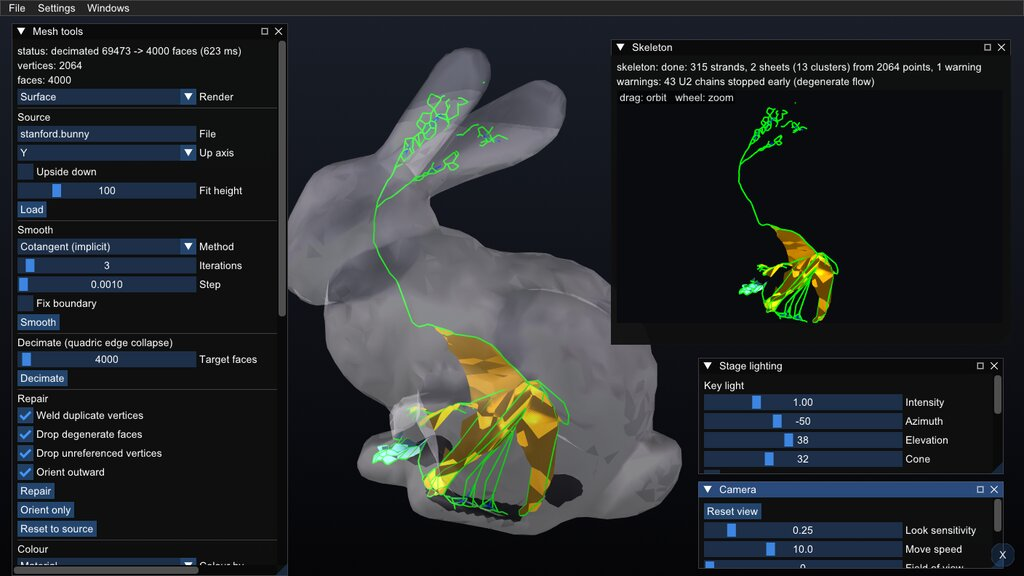
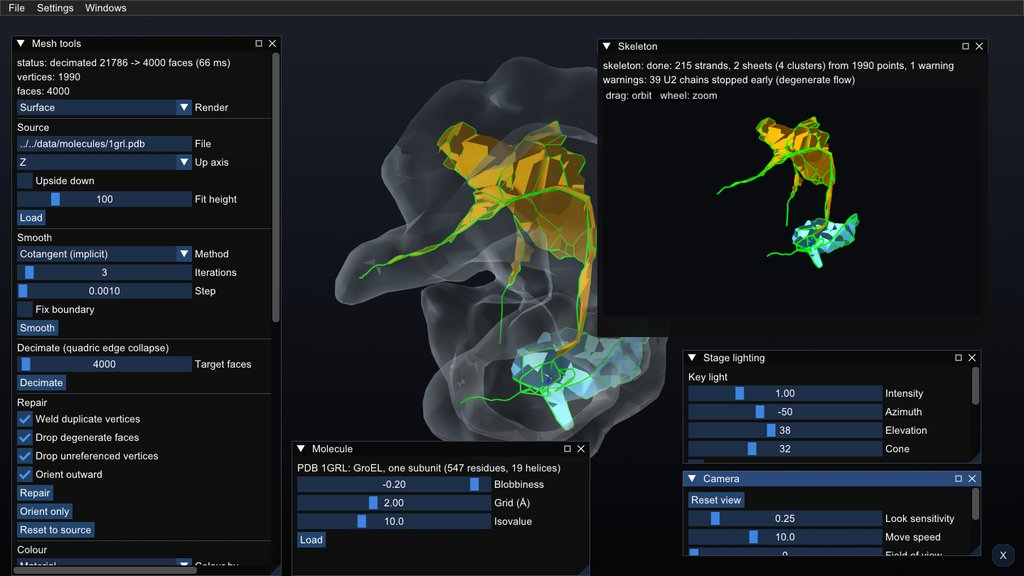
skeleton lab on a molecule: mesh_lab makes PDB 1GRL's surface (blur map, isosurface); its strands follow the helices
Joe: "i believe skeletonization was meant for molecular data. instead of the bunny, do we have a
better data set to use here ... maybe a pdb?"

- mesh_lab: a molecule file (.pdb, .ent, .pqr, .xyzr; cvc::mol) is read as its heavy atoms, blurred
  (cvc::mol::blur) and isosurfaced (cvc::iso); source.blobbiness / resolution / isovalue /
  hydrogens, seeded from the props of those names, are in the source's signature, so load reads it
  again when they change. TexMol's defaults (-2.3442, 1 Å, 1). An isovalue above the density's
  peak is an error naming the peak.
- skeleton_lab.ari: PDB 1GRL (a GroEL subunit) at blobbiness -0.2, 2 Å, isovalue 10, decimated to
  4,000 triangles and skeletonized; a Molecule window changes the blur and makes it again. The
  gallery entry's text and thumbnail. mesh_tools is unchanged (other documents and goldens show it).
- Why those settings: at TexMol's default blobbiness the surface is the atoms' own and the skeleton
  finds no strands; in blurrier maps its strands run along the helices. Here 81 of 243 helix
  C-alphas lie within 3 Å of a strand, 22 of 232 coil ones.
- cvcgl_mesh_skeleton: the molecule case (the surface, the seeded keys, decimate and skeleton, the
  helix/coil ratio above 2, an isovalue above the peak reported).
- Golden molecule_skeleton.ari: 1GRL's isosurface skeletonized as it is (not decimated), so every
  platform skeletonizes the same points; its PNG comes from CI's llvmpipe run.
[…]

diff --git a/src/cvcGL/test/cvcgl_mesh_skeleton.cpp b/src/cvcGL/test/cvcgl_mesh_skeleton.cpp
@@ -51,10 +51,10 @@
 #include <cvc/geometry/skeleton.h>
 #include <cvc/geometry/tet_complex.h> // tet_complex_available
 #include <cvc/gl/GeometryNode.h>
-#include <cvc/mol/molecule.h>
 #include <cvc/gl/SceneGraph.h>
 #include <cvc/gl/ariadne/extensions.h>
 #include <cvc/gl/ariadne/scene_realize.h>
+#include <cvc/mol/molecule.h>
 #include <cvc/state/state.h>
 #include <filesystem>
 #include <memory>
@@ -513,17 +513,20 @@ int main() {
 
   // ---- a molecule: PDB entry 1GRL (a GroEL subunit) as a surface, then its skeleton ----
   // A .pdb source is the isosurface of its heavy atoms' blur map (cvc::mol::blur). At the skeleton
-  // lab's settings, a low-resolution map (blobbiness -0.2, 2 Å, isovalue 10), the skeleton's strands
-  // run along the helices: a helix's C-alpha lies near a strand far more often than a coil's.
+  // lab's settings, a low-resolution map (blobbiness -0.2, 2 Å, isovalue 10), the skeleton's
+  // strands run along the helices: a helix's C-alpha lies near a strand far more often than a
+  // coil's.
   {
     cvc::app ma;
     cvc::gl::ariadne::register_cvcgl_extensions(ma);
-    const fs::path molDir = fs::path(CVC_REPO_DIR) / "src" / "cvc" / "tests" / "data" / "mol";
+    const fs::path molDir = fs::path(CVC_REPO_DIR) / "examples" / "data" / "molecules";
     Value mp;
     mp.kind = Value::Kind::Map;
-    for (const auto &kv : std::vector<std::pair<std::string, std::string>>{
-             {"blobbiness", "-0.2"}, {"resolution", "2"}, {"isovalue", "10"},
-             {"target_faces", "4000"}})
+    for (const auto &kv :
+         std::vector<std::pair<std::string, std::string>>{{"blobbiness", "-0.2"},
+                                                          {"resolution", "2"},
+                                                          {"isovalue", "10"},
+                                                          {"target_faces", "4000"}})
       mp.entries.emplace_back(kv.first, scalar(kv.second));
     Lab lab(ma, "mol", molDir, "1grl.pdb", mp);
     const std::size_t surface_tris =
@@ -537,7 +540,8 @@ int main() {
           "source.blobbiness / resolution / isovalue / hydrogens are seeded from the props");
       lab.set(ops + ".request", "decimate skeleton");
       chk(lab.settle(), "the decimate and the skeleton settle");
-      chk(starts(lab.get(sk + ".status"), "done: "), "the skeleton ran: " + lab.get(sk + ".status"));
+      chk(starts(lab.get(sk + ".status"), "done: "),
+          "the skeleton ran: " + lab.get(sk + ".status"));
       const auto strands = lab.part("strands");
       std::size_t helix = 0, helix_near = 0, coil = 0, coil_near = 0;
       if (strands && !strands->const_lines().empty()) {

diff --git a/src/cvcGL/ariadne/mesh_nodes.cpp b/src/cvcGL/ariadne/mesh_nodes.cpp
@@ -48,8 +48,6 @@
 #include <cvc/geometry/fem.h>
 #include <cvc/geometry/geometry.h>
 #include <cvc/geometry/geometry_file_io.h>
-#include <cvc/mol/blur.h>
-#include <cvc/mol/molecule.h>
 #include <cvc/geometry/mesh_ops.h>
 #include <cvc/geometry/simplify.h>
 #include <cvc/geometry/skeleton.h>        // mesh_lab's skeleton request
@@ -60,6 +58,8 @@
 #include <cvc/gl/ariadne/mesh_nodes.h>
 #include <cvc/gl/ariadne/scene_realize.h>
 #include <cvc/gl/ariadne/tf_binding.h> // the isovalue as an editable transfer-function isocontour
+#include <cvc/mol/blur.h>
+#include <cvc/mol/molecule.h>
 #include <cvc/state/state.h>
 #include <cvc/tf/model.h>            // field colours: a transfer function's colour ramp
 #include <cvc/tf/overlay_tasks.h>    // ... the spectrum / tree an editor asks for, on the scheduler
@@ -743,8 +743,13 @@ cvc::geometry molecule_surface(cvc::app &app, const std::string &path, const Sou
       for (std::uint64_t y = 0; y < v.YDim(); ++y)
         for (std::uint64_t x = 0; x < v.XDim(); ++x)
           peak = std::max(peak, v(x, y, z));
-    throw std::runtime_error("the molecule's surface at isovalue " + std::to_string(s.isovalue) +
-                             " is empty: its density peaks at " + std::to_string(peak));
+    const auto text = [](double x) {
+      char b[32];
+      std::snprintf(b, sizeof b, "%.6g", x);
+      return std::string(b);
+    };
+    throw std::runtime_error("the molecule's surface at isovalue " + text(s.isovalue) +
+                             " is empty: its density peaks at " + text(peak));
   }
   return g;
 #else

diff --git a/docs/ARIADNE.md b/docs/ARIADNE.md
@@ -2552,7 +2552,8 @@ down), centres it in x and y, sits it on z = 0 and scales its largest extent to 
 | `request` | `smooth`, `decimate`, `repair`, `orient`, `curvature`, `reset`, `load`, `reload`, `skeleton`, `stop` (§5.5); several separated by spaces run in order, as in `load smooth` or `decimate skeleton` | — |
 | `busy`, `status`, `stats.vertices`, `stats.faces` | published | — |
 | `stats.work_ms` | published: the wall time of the last run of commands, from the first to idle | — |
-| `source.file` | the mesh `load` reads: a path or URI, a relative path resolved against the document's directory (`stanford.bunny` is built in) | `source: { file }` |
+| `source.file` | the mesh `load` reads: a path or URI, a relative path resolved against the document's directory (`stanford.bunny` is built in). A molecule file (`.pdb`, `.ent`, `.pqr`, `.xyzr`; `cvc::mol`) is read as atoms, and its surface is the isosurface of its blur map, as the next row says | `source: { file }` |
+| `source.blobbiness`, `source.resolution`, `source.isovalue`, `source.hydrogens` | a molecule file's surface: its atoms blurred (`cvc::mol::blur`, TexMol's GOABlur: each atom adds exp(B (r²/R² − 1)), B the blobbiness, negative) on a grid of this spacing in Å, then the isosurface at `isovalue`; hydrogens left out unless `source.hydrogens`. The defaults (−2.3442, 1, 1) are TexMol's, a surface near the atoms' van der Waals spheres; a blobbiness nearer 0 and a higher isovalue give a low-resolution map's surface, where a helix reads as a rod (the skeleton lab uses −0.2, 2 Å, 10) | `blobbiness`, `resolution`, `isovalue`, `hydrogens` |
 | `source.up`, `source.flip`, `source.height` | the `fit:` `load` applies: up axis `x`/`y`/`z`, upside down, height (0 = no fit) | `fit:` |
 | `smooth.method` | `cotan` (implicit) / `uniform` / `taubin` | `smooth_method` |
 | `smooth.iterations`, `smooth.lambda`, `smooth.fix_boundary` | `cvc::smooth_params` | `smooth_iterations`, `smooth_lambda`, `fix_boundary` |
@@ -2609,8 +2610,11 @@ clears it. The children are tagged `skeleton` and the node's own surface `surfac
 node's own tags (below, Tags), so a viewport with `show: [skeleton]` shows the skeleton alone and
 one with `hide: [surface]` shows a mesh_lab without its surface. The skeleton needs Shewchuk's
 predicates (`CVC_WITH_SHEWCHUK`); without them `skeleton.status` reports skeletonize's error.
-[`skeleton_lab.ari`](../examples/ariadne/documents/skeleton_lab.ari) is the demo
-(`cvcgl_mesh_skeleton`, `cvcgl_ariadne_views`, the `skeleton` golden).
+[`skeleton_lab.ari`](../examples/ariadne/documents/skeleton_lab.ari) is the demo: the skeleton
+of a protein's surface, PDB entry 1GRL (a GroEL subunit) read and blurred into a low-resolution
+map (`source.blobbiness` -0.2, 2 Å, isovalue 10), whose strands run along its helices
+(`cvcgl_mesh_skeleton`, `cvcgl_ariadne_views`, the `skeleton` golden on a bunny and the
+`molecule_skeleton` golden on 1GRL).
 
 **`type: fe_lab`** reads a volume like a `volren` node (`source: { file }` or `{ sdf }`) and
 meshes it with the in-tree LBIE mesher (`CVC_ENABLE_MESHER`): tetrahedra

diff --git a/docs/roadmap/TEXMOL-F2DOCK-ARISRV-ROADMAP.md b/docs/roadmap/TEXMOL-F2DOCK-ARISRV-ROADMAP.md
@@ -20,9 +20,14 @@ scheduler in slices with progress for the UI, interactive on one thread (§1 ite
   atoms and radii, its grid, and its densities to 1e-5 (most voxels bit for bit: TexMol sums a
   sheet's strands together). Not in it: the hydrophobicity and electrostatic densities, colour,
   the multilevel blur, the surfaces (T1 part 2).
-- **Next, for the skeleton demo** (Joe, 2026-11-21: skeletonization was meant for molecular data
-  too): a mesh_lab that builds its surface from a PDB (the blur's isosurface) and a skeleton demo
-  on 1GRL, whose strands and sheets should follow its 19 helices and 11 strands.
+- **The skeleton demo on a molecule** (2026-11-21; Joe: skeletonization was meant for molecular
+  data too): mesh_lab reads a molecule file (`.pdb`, `.ent`, `.pqr`, `.xyzr`) as its heavy atoms'
+  blur map's isosurface (`source.blobbiness`, `source.resolution`, `source.isovalue`,
+  `source.hydrogens`), and the skeleton lab shows 1GRL. At blobbiness -0.2 on a 2 Å grid,
+  isovalue 10, decimated to 4,000 triangles, the skeleton's strands run along the helices: 81 of
+  243 helix C-alphas lie within 3 Å of a strand, 22 of 232 coil ones (`cvcgl_mesh_skeleton`
+  checks the ratio stays above 2). At TexMol's default blobbiness the surface is the atoms' own
+  and the skeleton finds no strands; sheets follow the beta strands only weakly.
 **Asked for (Joe, 2026-11-09):** port TexMol's legacy libraries; port the F2Dock server to arisrv
 and Ariadne documents, with TexMol talking to it; consider conference mode for this; make arisrv
 general for TexMol and VolumeRover compute tasks; and load scientific visualizations and digital
